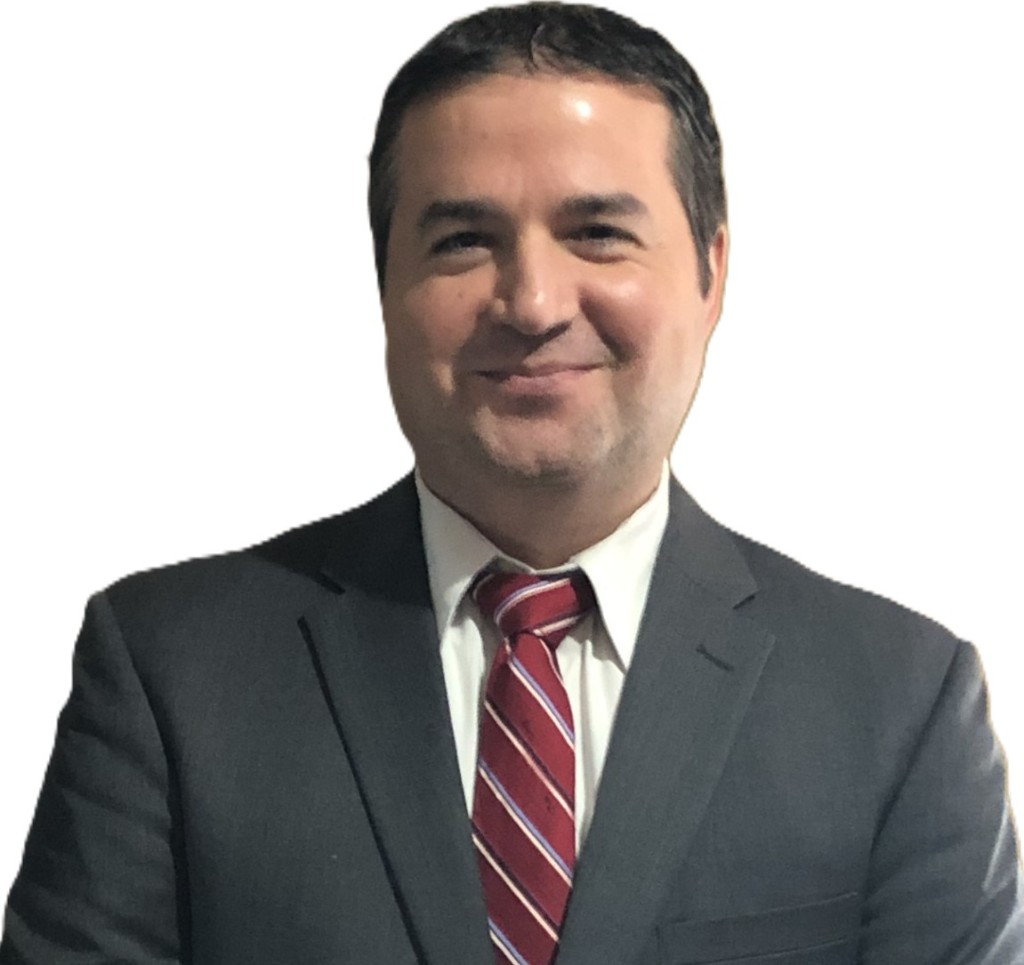
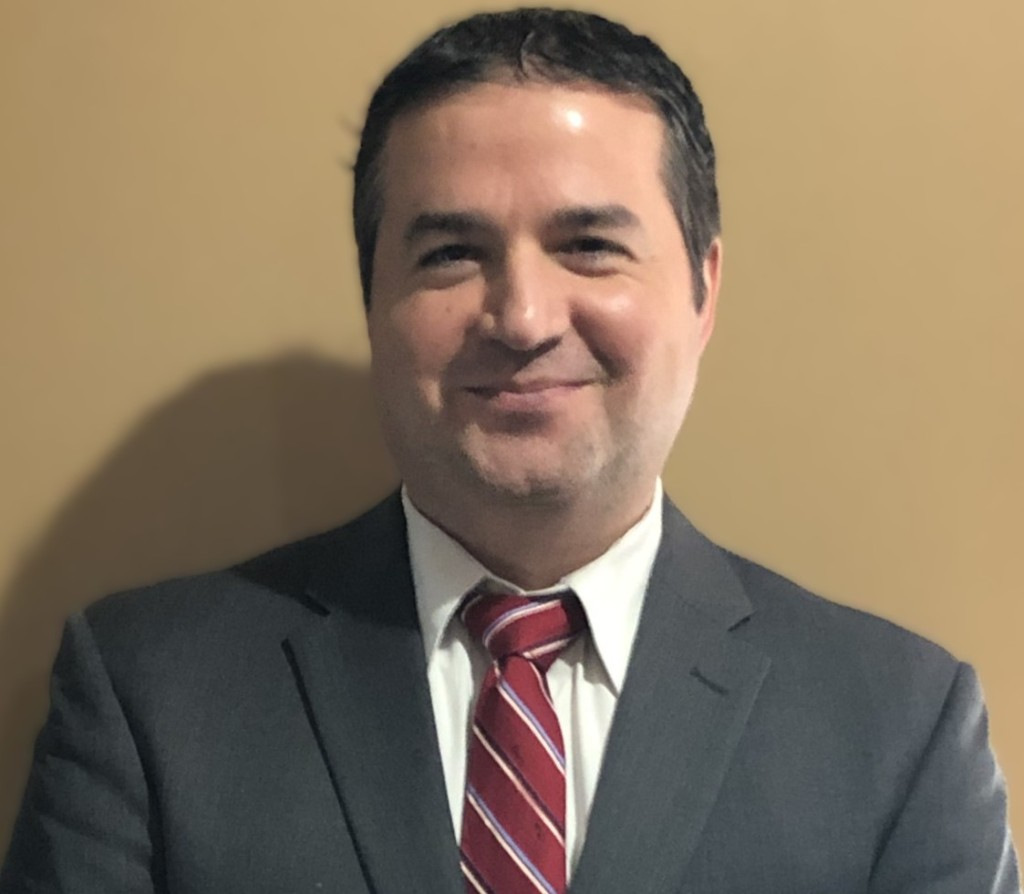
Swap About headshot to tan background photo with gold ring border

diff --git a/website/app/(marketing)/about/page.tsx b/website/app/(marketing)/about/page.tsx
@@ -47,15 +47,17 @@ export default function About() {
       <div className="max-w-5xl mx-auto px-6 pb-12">
         <div className="max-w-3xl border border-white/10 rounded-2xl p-8 bg-card">
           <div className="flex flex-col md:flex-row gap-6 md:gap-8 items-start md:items-center">
-            <div className="flex-shrink-0 w-28 h-28 md:w-32 md:h-32 rounded-full border-2 border-accent/40 bg-white p-0.5 shadow-[0_0_0_1px_rgba(197,164,110,0.15)] overflow-hidden">
-              <Image
-                src="/headshot.png"
-                alt="Michael Hart, Founder and Principal"
-                width={128}
-                height={128}
-                className="w-full h-full rounded-full object-cover object-[center_15%]"
-                priority
-              />
+            <div className="flex-shrink-0 w-28 h-28 md:w-32 md:h-32 rounded-full p-[3px] bg-gradient-to-br from-accent via-accent-hover to-[#8f6f3d] shadow-[0_0_16px_rgba(197,164,110,0.35)]">
+              <div className="w-full h-full rounded-full overflow-hidden ring-1 ring-accent/20">
+                <Image
+                  src="/headshot.png"
+                  alt="Michael Hart, Founder and Principal"
+                  width={128}
+                  height={128}
+                  className="w-full h-full object-cover object-center"
+                  priority
+                />
+              </div>
             </div>
             <div className="flex-1">
               <div>
